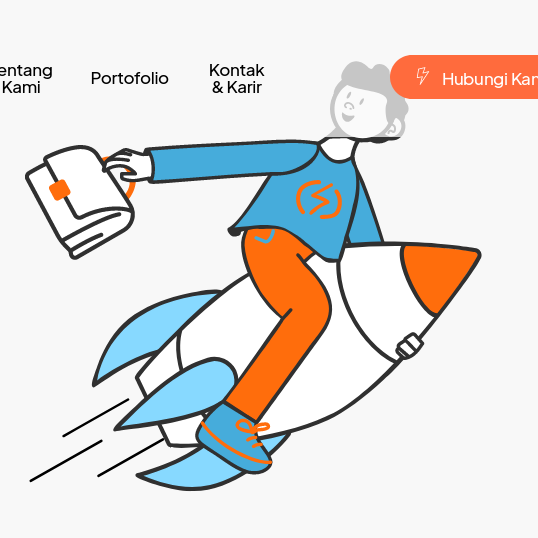
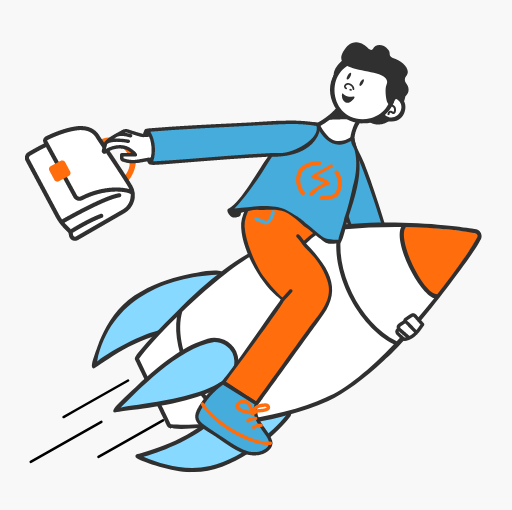
add font

diff --git a/index.html b/index.html
@@ -58,6 +58,20 @@
           </ul>
         </div>
       </nav>
+      <div class="container">
+        <div class="row">
+          <div class="col s4 l6">
+            <h2>
+              We are <br />
+              <b>digitalk</b> <br />
+              creative
+            </h2>
+          </div>
+          <div class="col s8 l6">
+            <img src="img/roket.png" alt="" />
+          </div>
+        </div>
+      </div>
     </header>
 
     <!-- photo/gird -->

diff --git a/css/style.css b/css/style.css
@@ -31,7 +31,13 @@ header {
   background-color: #f8f8f8;
   background-size: cover;
   background-position: center;
-  min-height: 700px;
+  min-height: 500px;
+}
+div .container {
+  margin-top: -300px;
+}
+header img {
+  width: 350px;
 }
 
 .section {
